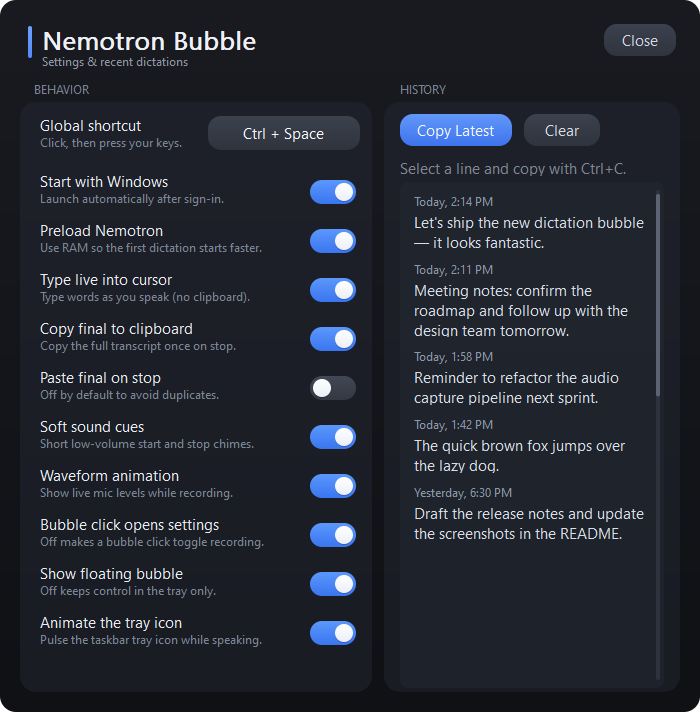
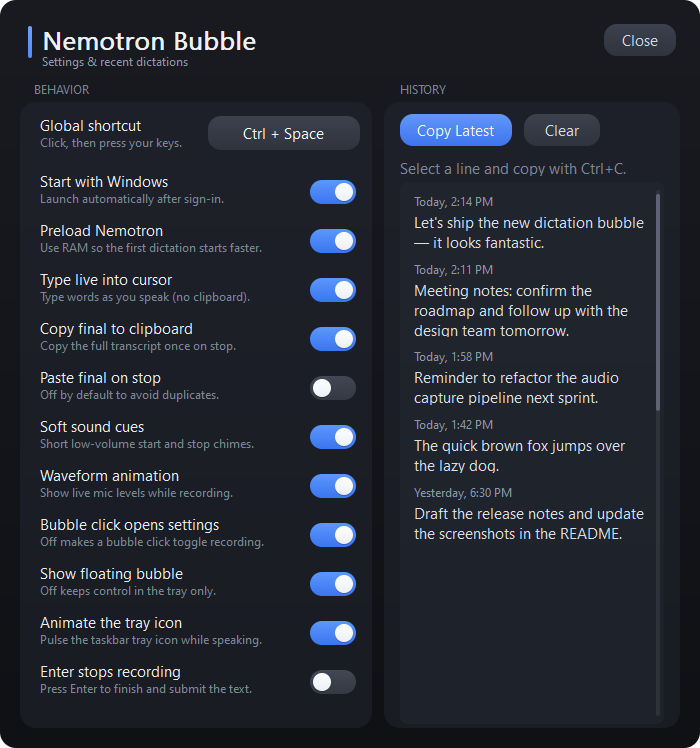
Add silence auto-stop, Enter-to-stop, modifier-release fix, and crash log
- Auto-stop recording after 15s without speech (plays the stop chime) so a forgotten session cannot run forever.
- Release physically-held modifiers before injecting text, fixing Ctrl+Space-stop folding the final words into Ctrl+key shortcuts (which were opening apps/tabs).
- Optional 'Enter stops recording' setting: Enter finalizes the transcript then submits.
- Panic hook writes crash.log so future crashes are diagnosable in the no-console release build.

diff --git a/src/main.rs b/src/main.rs
@@ -17,7 +17,7 @@ use std::ptr::{null, null_mut};
 use std::sync::atomic::{AtomicBool, AtomicIsize, AtomicUsize, Ordering};
 use std::sync::{Arc, Mutex};
 use std::thread;
-use std::time::Duration;
+use std::time::{Duration, Instant};
 use windows_sys::Win32::Foundation::{
     GlobalFree, HGLOBAL, HWND, LPARAM, LRESULT, POINT, RECT, SIZE, WPARAM,
 };
@@ -45,10 +45,11 @@ use windows_sys::Win32::System::Memory::{
 };
 use windows_sys::Win32::System::Ole::CF_UNICODETEXT;
 use windows_sys::Win32::UI::Input::KeyboardAndMouse::{
-    GetKeyNameTextW, GetKeyState, INPUT, INPUT_0, INPUT_KEYBOARD, KEYBDINPUT, KEYEVENTF_KEYUP,
-    KEYEVENTF_UNICODE, MAPVK_VK_TO_VSC, MOD_ALT, MOD_CONTROL, MOD_NOREPEAT, MOD_SHIFT, MOD_WIN,
-    MapVirtualKeyW, RegisterHotKey, ReleaseCapture, SendInput, SetCapture, SetFocus,
-    UnregisterHotKey, VK_CONTROL, VK_ESCAPE, VK_LWIN, VK_MENU, VK_RWIN, VK_SHIFT, VK_SPACE,
+    GetAsyncKeyState, GetKeyNameTextW, GetKeyState, INPUT, INPUT_0, INPUT_KEYBOARD, KEYBDINPUT,
+    KEYEVENTF_KEYUP, KEYEVENTF_UNICODE, MAPVK_VK_TO_VSC, MOD_ALT, MOD_CONTROL, MOD_NOREPEAT,
+    MOD_SHIFT, MOD_WIN, MapVirtualKeyW, RegisterHotKey, ReleaseCapture, SendInput, SetCapture,
+    SetFocus, UnregisterHotKey, VK_CONTROL, VK_ESCAPE, VK_LWIN, VK_MENU, VK_RETURN, VK_RWIN,
+    VK_SHIFT, VK_SPACE,
 };
 use windows_sys::Win32::UI::Shell::{
     NIF_ICON, NIF_MESSAGE, NIF_TIP, NIM_ADD, NIM_DELETE, NIM_MODIFY, NOTIFYICONDATAW,
@@ -76,6 +77,11 @@ use winreg::enums::HKEY_CURRENT_USER;
 const CLASS_NAME: &str = "NemotronBubbleWindow";
 const TRAY_ID: u32 = 1;
 const HOTKEY_ID: i32 = 42;
+const ENTER_HOTKEY_ID: i32 = 43;
+// Auto-stop recording after this many seconds without detected speech.
+const SILENCE_AUTO_STOP_SECS: u64 = 15;
+// Bar height above which we consider the user to be speaking.
+const VOICE_LEVEL_THRESHOLD: f32 = 0.12;
 const WM_TRAYICON: u32 = WM_USER + 1;
 const WM_UI_UPDATE: u32 = WM_APP + 1;
 
@@ -91,7 +97,7 @@ const ANIM_TIMER_ID: usize = 77;
 const ANIM_INTERVAL_MS: u32 = 33; // ~30 fps
 
 const SETTINGS_WIDTH: i32 = 700;
-const SETTINGS_HEIGHT: i32 = 712;
+const SETTINGS_HEIGHT: i32 = 748;
 const HISTORY_EDIT_ID: usize = 3001;
 const NEMOTRON_SAMPLE_RATE: f64 = 16_000.0;
 const NEMOTRON_CHUNK_SIZE: usize = 8_960; // 560 ms at 16 kHz.
@@ -110,6 +116,7 @@ const SETTINGS_TOGGLE_WAVEFORM: usize = 2007;
 const SETTINGS_TOGGLE_BUBBLE_CLICK_SETTINGS: usize = 2008;
 const SETTINGS_TOGGLE_FLOATING_BUBBLE: usize = 2009;
 const SETTINGS_TOGGLE_TRAY_WAVEFORM: usize = 2010;
+const SETTINGS_TOGGLE_ENTER_STOPS: usize = 2011;
 
 static APP: OnceCell<Arc<AppState>> = OnceCell::new();
 static UI_FONT: OnceCell<isize> = OnceCell::new();
@@ -142,6 +149,7 @@ struct AppSettings {
     bubble_click_opens_settings: bool,
     show_floating_bubble: bool,
     tray_waveform_enabled: bool,
+    enter_stops_recording: bool,
     hotkey_mods: u32,
     hotkey_vk: u32,
     paste_delay_ms: u64,
@@ -161,6 +169,7 @@ impl Default for AppSettings {
             bubble_click_opens_settings: true,
             show_floating_bubble: true,
             tray_waveform_enabled: true,
+            enter_stops_recording: false,
             hotkey_mods: MOD_CONTROL,
             hotkey_vk: VK_SPACE as u32,
             paste_delay_ms: 60,
@@ -184,6 +193,7 @@ struct UiState {
     model_dir: String,
     waveform: Vec<f32>,
     current_level: f32,
+    last_voice: Instant,
 }
 
 struct AppState {
@@ -194,6 +204,7 @@ struct AppState {
     settings_hwnd: AtomicIsize,
     history_edit_hwnd: AtomicIsize,
     capturing_hotkey: AtomicBool,
+    enter_pending: AtomicBool,
     drag: Mutex<Option<DragState>>,
     settings: Mutex<AppSettings>,
     history: Mutex<Vec<HistoryItem>>,
@@ -222,6 +233,8 @@ impl RectI {
 }
 
 fn main() -> Result<()> {
+    install_crash_logger();
+
     if env::args().any(|arg| arg == "--self-test") {
         return self_test();
     }
@@ -253,6 +266,7 @@ fn main() -> Result<()> {
         settings_hwnd: AtomicIsize::new(0),
         history_edit_hwnd: AtomicIsize::new(0),
         capturing_hotkey: AtomicBool::new(false),
+        enter_pending: AtomicBool::new(false),
         drag: Mutex::new(None),
         settings: Mutex::new(settings),
         history: Mutex::new(history),
@@ -264,6 +278,7 @@ fn main() -> Result<()> {
             model_dir: String::new(),
             waveform: vec![0.0; WAVE_BARS],
             current_level: 0.0,
+            last_voice: Instant::now(),
         }),
     });
 
@@ -284,6 +299,29 @@ fn main() -> Result<()> {
     }
 
     Ok(())
+}
+
+/// Append any panic (message + location, from any thread) to crash.log. The
+/// release build has no console, so without this a panic that aborts the process
+/// leaves no trace. Runs before unwinding, so it captures the cause even when the
+/// panic later aborts by crossing an FFI callback boundary.
+fn install_crash_logger() {
+    let default = std::panic::take_hook();
+    std::panic::set_hook(Box::new(move |info| {
+        let line = format!(
+            "[{}] {}\n",
+            Local::now().format("%Y-%m-%d %H:%M:%S"),
+            info
+        );
+        let path = app_data_dir().join("crash.log");
+        if let Some(parent) = path.parent() {
+            let _ = fs::create_dir_all(parent);
+        }
+        if let Ok(mut file) = fs::OpenOptions::new().create(true).append(true).open(&path) {
+            let _ = file.write_all(line.as_bytes());
+        }
+        default(info);
+    }));
 }
 
 fn self_test() -> Result<()> {
@@ -361,6 +399,9 @@ fn toggle_setting(app: &Arc<AppState>, id: usize) {
             SETTINGS_TOGGLE_TRAY_WAVEFORM => {
                 settings.tray_waveform_enabled = !settings.tray_waveform_enabled
             }
+            SETTINGS_TOGGLE_ENTER_STOPS => {
+                settings.enter_stops_recording = !settings.enter_stops_recording
+            }
             _ => {}
         }
         settings.clone()
@@ -368,6 +409,17 @@ fn toggle_setting(app: &Arc<AppState>, id: usize) {
 
     save_settings(&settings);
     apply_startup_setting(settings.start_with_windows);
+    // If toggled during a live recording, add/remove the Enter hotkey immediately.
+    if id == SETTINGS_TOGGLE_ENTER_STOPS && app.recording.load(Ordering::SeqCst) {
+        unsafe {
+            let hwnd = hwnd_from_app(app);
+            if settings.enter_stops_recording {
+                register_enter_hotkey(hwnd);
+            } else {
+                unregister_enter_hotkey(hwnd);
+            }
+        }
+    }
     if settings.preload_model {
         let _ = app.engine_tx.send(EngineCommand::Preload);
     }
@@ -721,8 +773,19 @@ unsafe extern "system" fn wnd_proc(
             0
         }
         WM_HOTKEY => {
-            if wparam as i32 == HOTKEY_ID {
-                toggle_recording();
+            match wparam as i32 {
+                HOTKEY_ID => toggle_recording(),
+                ENTER_HOTKEY_ID => {
+                    if let Some(app) = APP.get() {
+                        if app.recording.load(Ordering::SeqCst) {
+                            // Stop, then the engine re-injects Enter once the full
+                            // transcript has been typed (so the text submits).
+                            app.enter_pending.store(true, Ordering::SeqCst);
+                            stop_recording(app);
+                        }
+                    }
+                }
+                _ => {}
             }
             0
         }
@@ -1000,6 +1063,11 @@ fn run_engine(rx: Receiver<EngineCommand>, app: Arc<AppState>) {
                         ui.recording = false;
                         ui.status = "Ready. Press Ctrl+Space to start.".to_string();
                     });
+                }
+                // If this stop was triggered by Enter, submit now that the full
+                // transcript has been typed.
+                if app.enter_pending.swap(false, Ordering::SeqCst) {
+                    let _ = unsafe { send_enter() };
                 }
             }
             Ok(EngineCommand::Shutdown) | Err(_) => break,
@@ -1283,15 +1351,21 @@ fn toggle_recording() {
 fn start_recording(app: &Arc<AppState>) {
     remember_target_window(app);
     app.recording.store(true, Ordering::SeqCst);
+    app.enter_pending.store(false, Ordering::SeqCst);
     let _ = app.engine_tx.send(EngineCommand::Start);
     update_ui(app, |ui| {
         ui.recording = true;
         ui.visible = true;
         ui.status = "Starting...".to_string();
         ui.transcript.clear();
+        ui.last_voice = Instant::now(); // reset the silence timer
     });
     unsafe {
         let hwnd = hwnd_from_app(app);
+        // While recording, optionally let Enter end the session.
+        if settings_snapshot(app).enter_stops_recording {
+            register_enter_hotkey(hwnd);
+        }
         if hwnd != null_mut() && settings_snapshot(app).show_floating_bubble {
             ShowWindow(hwnd, SW_SHOWNA);
         }
@@ -1311,12 +1385,28 @@ fn remember_target_window(app: &Arc<AppState>) {
 
 fn stop_recording(app: &Arc<AppState>) {
     app.recording.store(false, Ordering::SeqCst);
+    unsafe {
+        // Release the temporary Enter hotkey before the engine re-injects Enter.
+        unregister_enter_hotkey(hwnd_from_app(app));
+    }
     play_stop_sound(app);
     let _ = app.engine_tx.send(EngineCommand::Stop);
     update_ui(app, |ui| {
         ui.recording = false;
         ui.status = "Finalizing...".to_string();
     });
+}
+
+unsafe fn register_enter_hotkey(hwnd: HWND) {
+    if hwnd != null_mut() {
+        RegisterHotKey(hwnd, ENTER_HOTKEY_ID, MOD_NOREPEAT, VK_RETURN as u32);
+    }
+}
+
+unsafe fn unregister_enter_hotkey(hwnd: HWND) {
+    if hwnd != null_mut() {
+        UnregisterHotKey(hwnd, ENTER_HOTKEY_ID);
+    }
 }
 
 fn play_start_sound(app: &Arc<AppState>) {
@@ -1479,8 +1569,18 @@ fn unicode_input(unit: u16, extra_flags: u32) -> INPUT {
 /// this never touches the clipboard, so live dictation can stream into the cursor
 /// without clobbering whatever the user has copied. UTF-16 (incl. surrogate pairs)
 /// is sent verbatim.
+///
+/// Critically, it first releases any modifier the user is physically holding
+/// (e.g. the Ctrl from the Ctrl+Space stop hotkey). Otherwise Windows folds the
+/// injected characters into Ctrl/Alt+key shortcuts and the focused app fires them
+/// (opening tabs, switching apps, etc.).
 unsafe fn send_unicode(text: &str) -> Result<()> {
-    let mut inputs: Vec<INPUT> = Vec::with_capacity(text.len() * 2);
+    let mut inputs: Vec<INPUT> = Vec::with_capacity(text.len() * 2 + 4);
+    for vk in [VK_CONTROL, VK_MENU, VK_SHIFT, VK_LWIN, VK_RWIN] {
+        if (GetAsyncKeyState(vk as i32) as u16 & 0x8000) != 0 {
+            inputs.push(keyboard_input(vk, KEYEVENTF_KEYUP));
+        }
+    }
     for unit in text.encode_utf16() {
         inputs.push(unicode_input(unit, 0));
         inputs.push(unicode_input(unit, KEYEVENTF_KEYUP));
@@ -1495,6 +1595,24 @@ unsafe fn send_unicode(text: &str) -> Result<()> {
     );
     if sent != inputs.len() as u32 {
         return Err(anyhow!("unicode injection failed"));
+    }
+    Ok(())
+}
+
+/// Synthesize a single Enter key press (used by Enter-to-stop to submit the text
+/// after the full transcript has been typed).
+unsafe fn send_enter() -> Result<()> {
+    let inputs = [
+        keyboard_input(VK_RETURN, 0),
+        keyboard_input(VK_RETURN, KEYEVENTF_KEYUP),
+    ];
+    let sent = SendInput(
+        inputs.len() as u32,
+        inputs.as_ptr(),
+        std::mem::size_of::<INPUT>() as i32,
+    );
+    if sent != inputs.len() as u32 {
+        return Err(anyhow!("Enter injection failed"));
     }
     Ok(())
 }
@@ -1867,6 +1985,7 @@ fn handle_settings_click(x: i32, y: i32) {
         SETTINGS_TOGGLE_BUBBLE_CLICK_SETTINGS,
         SETTINGS_TOGGLE_FLOATING_BUBBLE,
         SETTINGS_TOGGLE_TRAY_WAVEFORM,
+        SETTINGS_TOGGLE_ENTER_STOPS,
     ] {
         if settings_toggle_rect(id).contains(x, y) {
             toggle_setting(app, id);
@@ -1909,6 +2028,9 @@ fn report_level(app: &Arc<AppState>, target: f32) {
         prev * 0.78 + target * 0.22
     };
     ui.current_level = smoothed.clamp(0.0, 1.0);
+    if target > VOICE_LEVEL_THRESHOLD {
+        ui.last_voice = Instant::now();
+    }
 }
 
 /// UI-thread tick: scroll the rolling waveform buffer by one sample of the current
@@ -2322,7 +2444,20 @@ unsafe fn on_anim_tick(hwnd: HWND) {
     };
     let peak = advance_waveform(app);
     let settings = settings_snapshot(app);
-    let recording = lock_ui(app).recording;
+    let (recording, silent_for) = {
+        let ui = lock_ui(app);
+        (ui.recording, ui.last_voice.elapsed())
+    };
+
+    // Auto-stop after a stretch of silence so a forgotten recording cannot run
+    // forever (and let the model's audio buffer grow without bound).
+    if recording && silent_for >= Duration::from_secs(SILENCE_AUTO_STOP_SECS) {
+        stop_recording(app);
+        update_ui(app, |ui| {
+            ui.status = format!("Auto-stopped after {SILENCE_AUTO_STOP_SECS}s of silence.");
+        });
+        return;
+    }
 
     if settings.show_floating_bubble && IsWindowVisible(hwnd) != 0 && (recording || peak > 0.004) {
         render_bubble(hwnd);
@@ -2409,6 +2544,12 @@ fn setting_rows(settings: &AppSettings) -> Vec<SettingRow> {
             title: "Animate the tray icon",
             detail: "Pulse the taskbar tray icon while speaking.",
             enabled: settings.tray_waveform_enabled,
+        },
+        SettingRow {
+            id: SETTINGS_TOGGLE_ENTER_STOPS,
+            title: "Enter stops recording",
+            detail: "Press Enter to finish and submit the text.",
+            enabled: settings.enter_stops_recording,
         },
     ]
 }
@@ -2825,6 +2966,7 @@ fn settings_toggle_rect(id: usize) -> RectI {
         SETTINGS_TOGGLE_BUBBLE_CLICK_SETTINGS => 7,
         SETTINGS_TOGGLE_FLOATING_BUBBLE => 8,
         SETTINGS_TOGGLE_TRAY_WAVEFORM => 9,
+        SETTINGS_TOGGLE_ENTER_STOPS => 10,
         _ => 0,
     };
     // Toggles begin below the shortcut row.